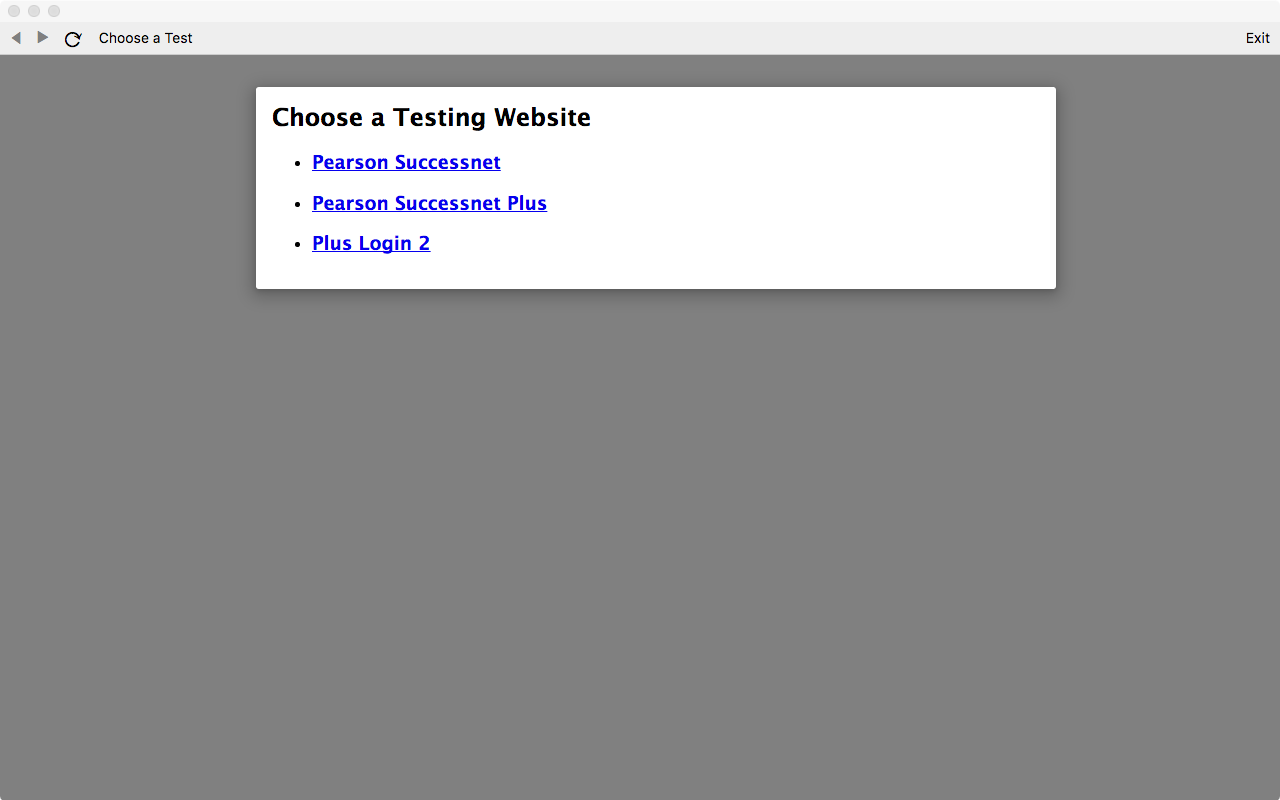
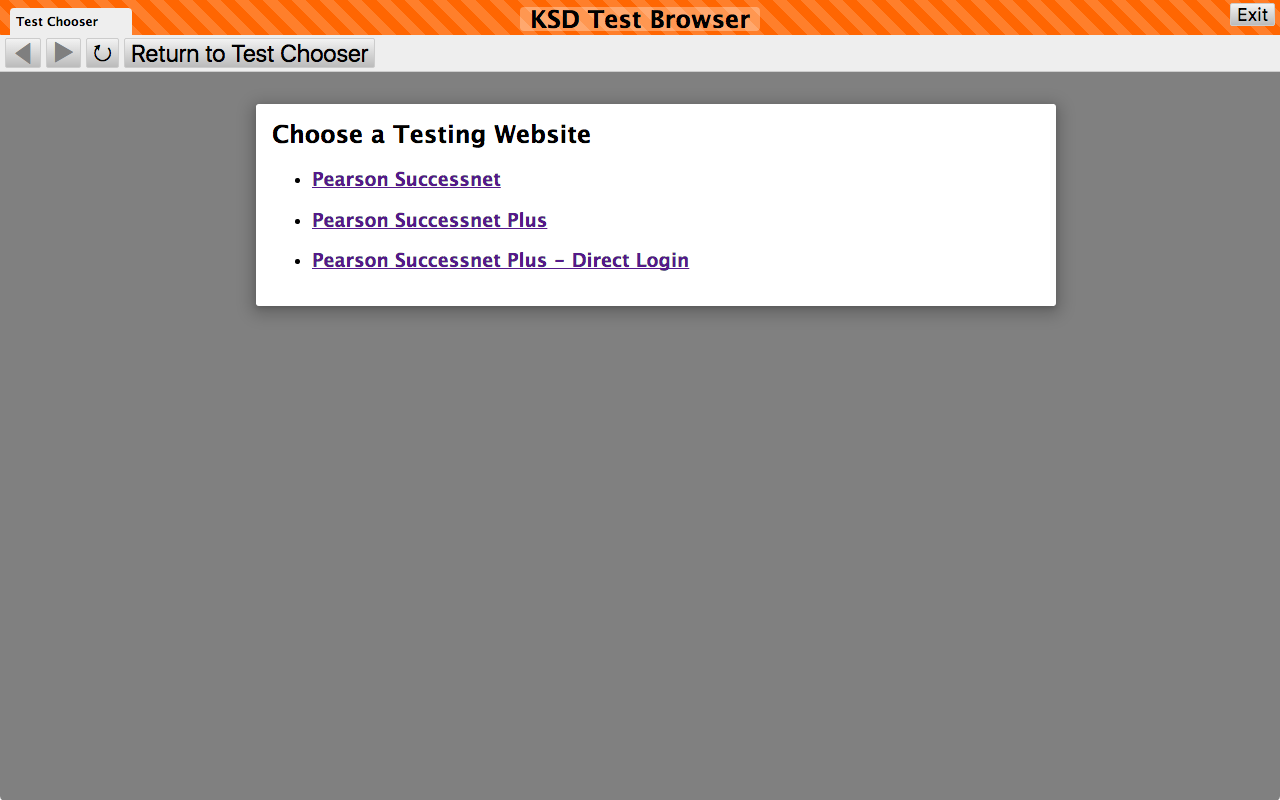
Several more cosmetic improvements.

Changed region(s): [[0.0, 0.0, 1.0, 0.4062]]

diff --git a/browser.css b/browser.css
@@ -46,7 +46,10 @@ div {
 
 #tab-controls {
   padding: 3px 3px 0px 3px;
+  /* High-Contrast International Orange Stripes. */
   background: repeating-linear-gradient( 45deg, #ff6600, #ff6600 10px, #FF7F2A 10px, #FF7F2A 20px );
+  /* Slightly More Pleasant but Lower Contrast Yellow Stripes. */
+  /*background: repeating-linear-gradient( 45deg, #FFF559, #FFF559 10px, #ECDE00 10px, #ECDE00 20px ); */
 }
 
 #tab-controls > button {
